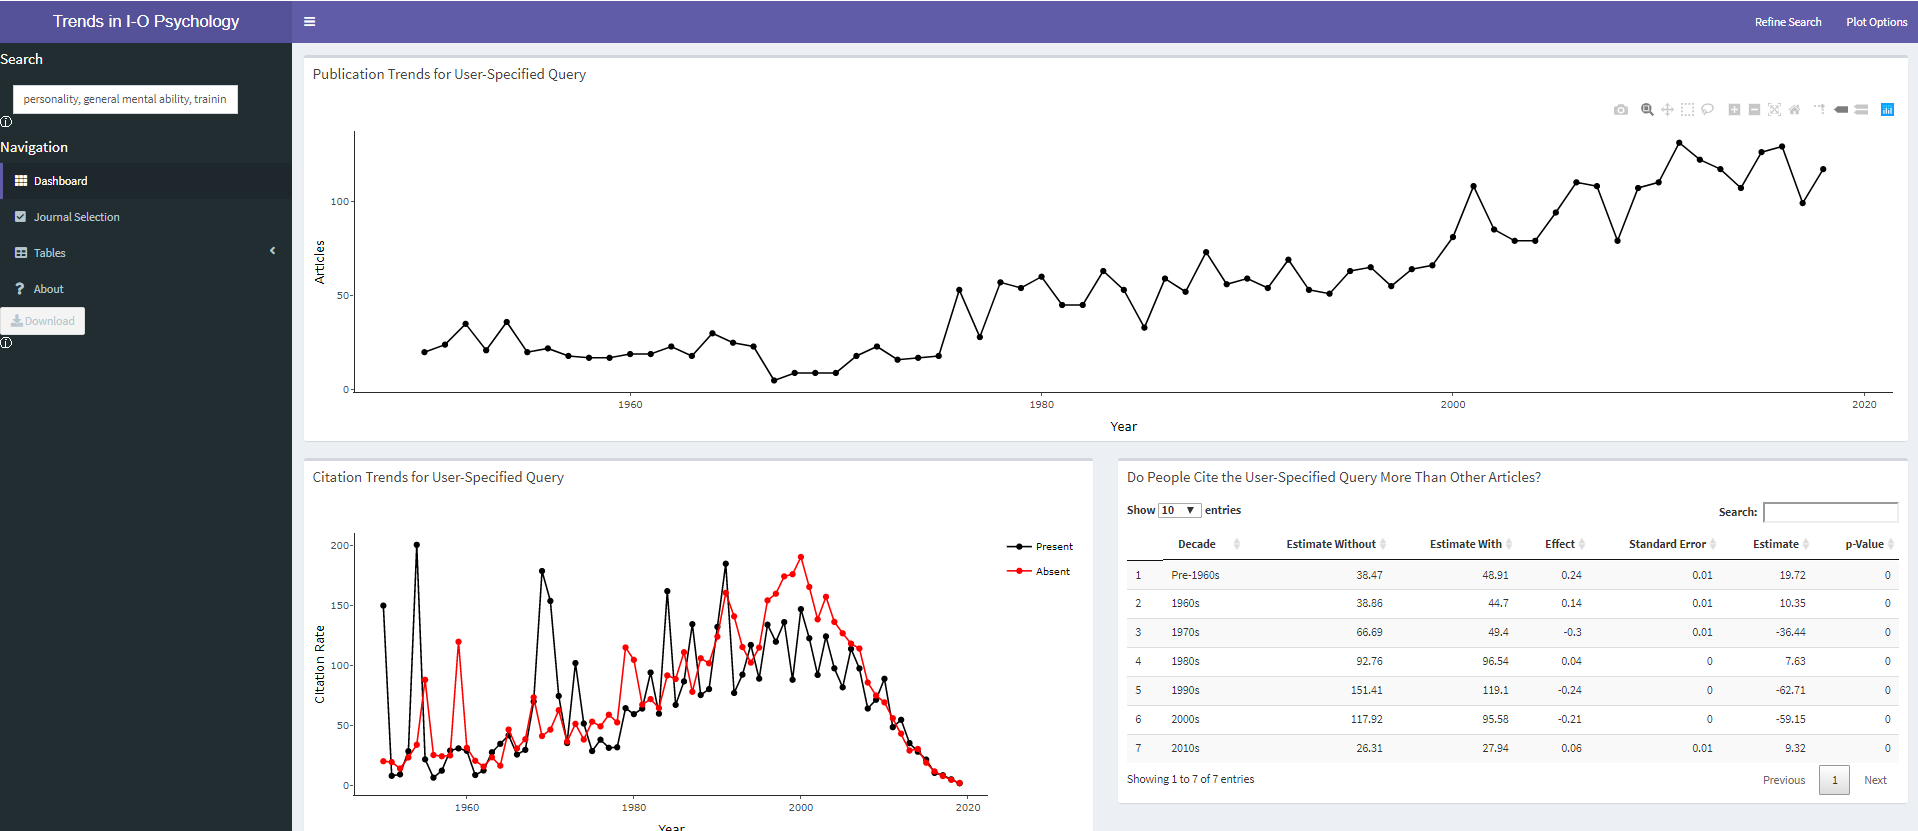
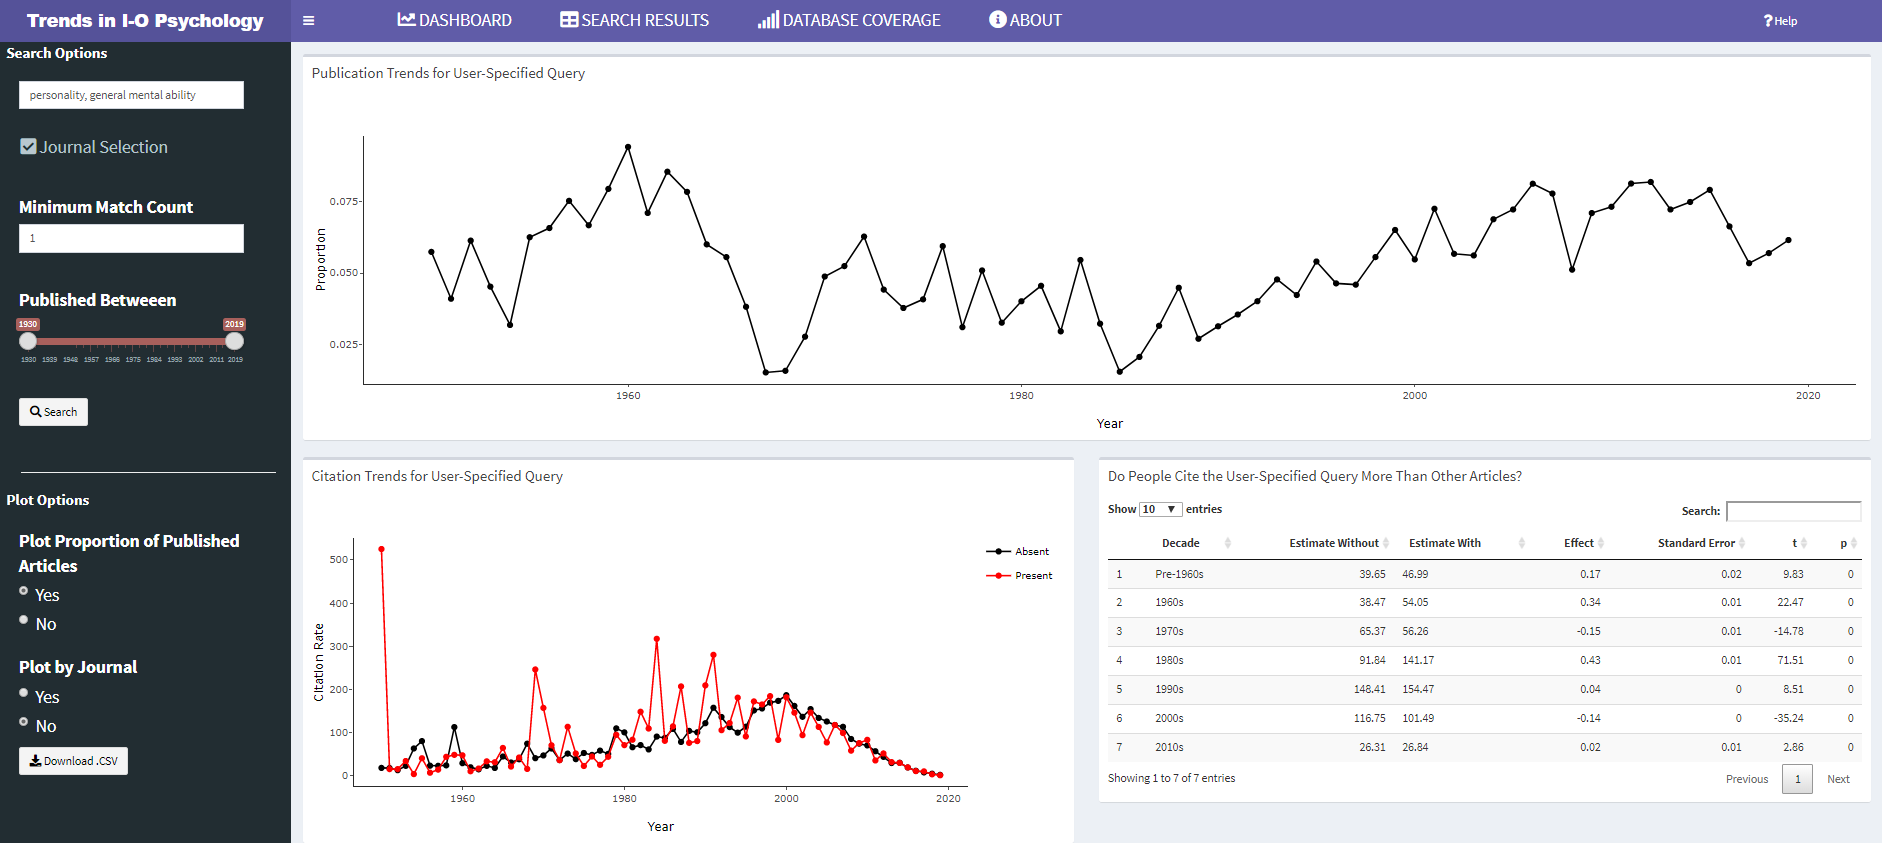
Updated Readme

diff --git a/README.md b/README.md
@@ -69,10 +69,9 @@ runApp()
 
 ## What’s New?
 
-  - Significant speed imporvements
-  - reorganization of internals
-  - Action button for creating new search
-  - Correcting a few typos and formatting errors
+  - Updated and simplified UI
+  - Added intro.js Tutorial
+  - Made cite-pred robust to null search results
 
 ## Future Improvements
 
@@ -86,11 +85,18 @@ runApp()
 
 ![Overview](supl/dashboard.PNG)
 
-![Instructions](supl/search_results.png)
+![Results](supl/search_results.png)
 
-![Trend by Publication Outlet](supl/journal%20selection.png)
+![Trend by Publication Outlet](supl/journal_selection.png)
 
 ## Old Change Logs
+
+### January 2020
+
+  - Significant speed imporvements
+  - Reorganization of internals
+  - Action button for new search
+  - Correcting a few errors
 
 ### October 2019
 
